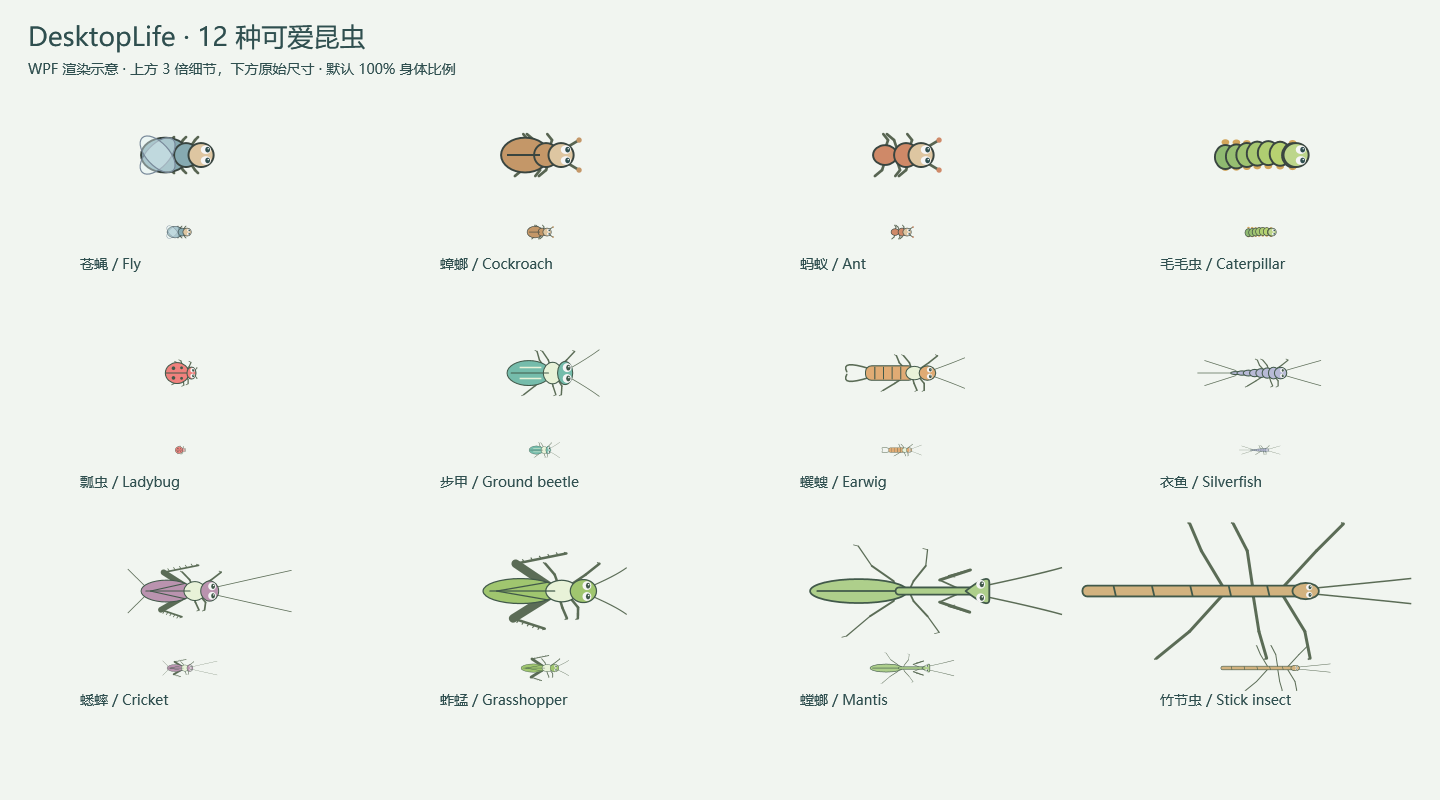
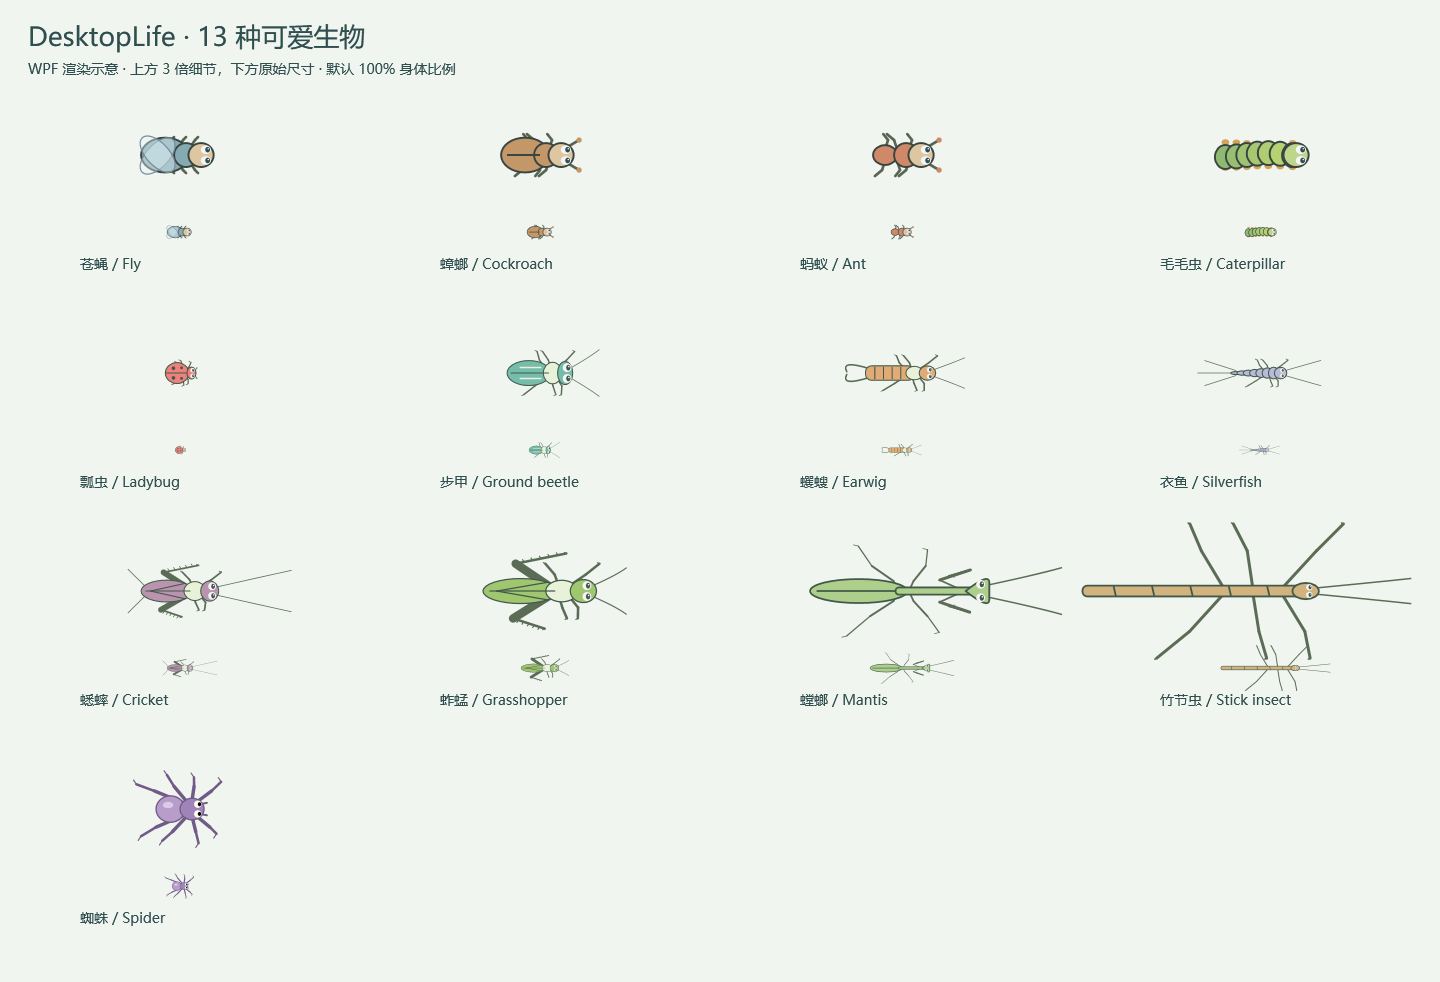
Prepare v0.4.2 release with spiders and longer jumps

diff --git a/README.md b/README.md
@@ -6,13 +6,13 @@
 
 Flies chase your cursor. Cockroaches scatter. Ants cross monitor boundaries. When your PC goes idle, the same creatures can take over as a native Windows screen saver.
 
-[**Download Desktop Pets v0.4.1**](https://github.com/JonGates/DesktopLife/releases/download/v0.4.1/DesktopLife-Portable-win-x64-v0.4.1.zip) · [**Download Screen Saver v0.4.1**](https://github.com/JonGates/DesktopLife/releases/download/v0.4.1/DesktopLife-ScreenSaver-win-x64-v0.4.1.zip) · [简体中文](README.zh-CN.md) · [All releases](https://github.com/JonGates/DesktopLife/releases)
+[**Download Desktop Pets v0.4.2**](https://github.com/JonGates/DesktopLife/releases/download/v0.4.2/DesktopLife-Portable-win-x64-v0.4.2.zip) · [**Download Screen Saver v0.4.2**](https://github.com/JonGates/DesktopLife/releases/download/v0.4.2/DesktopLife-ScreenSaver-win-x64-v0.4.2.zip) · [简体中文](README.zh-CN.md) · [All releases](https://github.com/JonGates/DesktopLife/releases)
 
-Windows 10/11 x64 · 12 insect species · Realistic and cute styles · Multi-monitor · Portable
+Windows 10/11 x64 · 13 creature types · Realistic and cute styles · Multi-monitor · Portable
 
 </div>
 
-> **In development:** the current source and local `0.4.2-preview.2` build add a spider with eight animated legs, realistic/cute appearances, and population/size controls in both desktop and screen saver modes. The linked v0.4.1 release does not include it yet. [Creature details](docs/INSECTS.md).
+> **New in v0.4.2:** eight-legged spiders, longer size-scaled jumps and refined ladybug wings. Both desktop and screen saver packages include these changes. [Creature details](docs/INSECTS.md).
 
 ![DesktopLife insects roaming across a Windows desktop](docs/images/live-desktop.gif)
 
@@ -22,7 +22,7 @@ Windows 10/11 x64 · 12 insect species · Realistic and cute styles · Multi-mon
 
 DesktopLife is both a **Windows desktop pet app** and a native **`.scr` screen saver**. Choose realistic insects, cute companions, or a mix of both:
 
-**Fly · Cockroach · Ant · Caterpillar · Ladybug · Ground beetle · Earwig · Silverfish · Cricket · Grasshopper · Mantis · Stick insect**
+**Fly · Cockroach · Ant · Caterpillar · Ladybug · Ground beetle · Earwig · Silverfish · Cricket · Grasshopper · Mantis · Stick insect · Spider**
 
 | Feature | What happens |
 | --- | --- |
@@ -31,7 +31,7 @@ DesktopLife is both a **Windows desktop pet app** and a native **`.scr` screen s
 | Species-specific motion | Crickets and grasshoppers jump. Ladybugs open their wings, take off and land. |
 | Realistic or cute | Switch the visual style without resetting populations, sizes or positions. |
 | True multi-monitor movement | Creatures cross the edges where monitors touch, including stacked, offset and negative-coordinate layouts. |
-| Per-species controls | Configure population and size ranges for the 11 non-fly species; set any of them to zero to hide it. The fly remains fixed at one. |
+| Per-species controls | Configure population and size ranges for the 12 non-fly species; set any of them to zero to hide it. The fly remains fixed at one. |
 
 ## Choose your mode
 
@@ -40,7 +40,7 @@ DesktopLife is both a **Windows desktop pet app** and a native **`.scr` screen s
 | Best for | Insects that stay with you while you work | An animated ecosystem while the PC is idle |
 | Interaction | Mouse-following fly, cursor reactions, pause/resume hotkeys | Autonomous movement; mouse or keyboard exits |
 | Display | Transparent overlay across your desktop | Native Windows `.scr` with dark or light background |
-| Download | **[DesktopLife-Portable-win-x64-v0.4.1.zip](https://github.com/JonGates/DesktopLife/releases/download/v0.4.1/DesktopLife-Portable-win-x64-v0.4.1.zip)** | **[DesktopLife-ScreenSaver-win-x64-v0.4.1.zip](https://github.com/JonGates/DesktopLife/releases/download/v0.4.1/DesktopLife-ScreenSaver-win-x64-v0.4.1.zip)** |
+| Download | **[DesktopLife-Portable-win-x64-v0.4.2.zip](https://github.com/JonGates/DesktopLife/releases/download/v0.4.2/DesktopLife-Portable-win-x64-v0.4.2.zip)** | **[DesktopLife-ScreenSaver-win-x64-v0.4.2.zip](https://github.com/JonGates/DesktopLife/releases/download/v0.4.2/DesktopLife-ScreenSaver-win-x64-v0.4.2.zip)** |
 
 Both packages support **Windows 10/11 x64**, include the .NET runtime, and keep their settings separate. No SDK, Visual Studio or separate .NET installation is required.
 
@@ -70,7 +70,7 @@ Keep the extracted screen saver folder in place after installation. See the [ful
 
 | Realistic insects | Cute insects |
 | --- | --- |
-| ![Realistic insects on dark and light backgrounds](docs/images/realistic-insects.png) | ![All 12 insects in cute style](docs/images/cute-insect-catalog.png) |
+| ![Realistic insects on dark and light backgrounds](docs/images/realistic-insects.png) | ![All 13 creatures in cute style](docs/images/cute-insect-catalog.png) |
 
 Realistic mode combines generated macro-style body textures with program-driven legs, antennae and wings. The assets are illustrations, not documentary photographs. Cute mode gives every species a distinct simplified appearance. Both styles are available in desktop and screen saver modes.
 
@@ -111,7 +111,7 @@ Desktop settings are stored under **`%AppData%\DesktopLife`**. The desktop app a
 
 ### Is this a finished release?
 
-Not yet. **v0.4.1 is a preview release.** Animation feedback and compatibility reports are especially useful—please include your Windows version and monitor arrangement when reporting a problem.
+Not yet. **v0.4.2 is a preview release.** Animation feedback and compatibility reports are especially useful—please include your Windows version and monitor arrangement when reporting a problem.
 
 ## Build from source
 
@@ -128,7 +128,7 @@ dotnet run --project src/DesktopLife.App -- --settings
 Create a self-contained Windows x64 package:
 
 ```powershell
-powershell -ExecutionPolicy Bypass -File scripts/Package-Portable.ps1 -Version 0.4.1
+powershell -ExecutionPolicy Bypass -File scripts/Package-Portable.ps1 -Version 0.4.2
 ```
 
 For implementation details, packaging commands and diagnostics, see the [development and packaging guide](docs/DEVELOPMENT_AND_PACKAGING.md). Motion and size behavior are documented in [locomotion](docs/LOCOMOTION.md) and [species and proportions](docs/INSECTS.md).
@@ -150,6 +150,6 @@ When reporting a problem, include:
 
 **If DesktopLife earned a permanent place on your desktop, consider giving it a ⭐.**
 
-[Download v0.4.1](https://github.com/JonGates/DesktopLife/releases/tag/v0.4.1) · [中文说明](README.zh-CN.md) · [Report a bug](https://github.com/JonGates/DesktopLife/issues)
+[Download v0.4.2](https://github.com/JonGates/DesktopLife/releases/tag/v0.4.2) · [中文说明](README.zh-CN.md) · [Report a bug](https://github.com/JonGates/DesktopLife/issues)
 
 </div>

diff --git a/docs/RELEASE_v0.4.2.md b/docs/RELEASE_v0.4.2.md
@@ -1,0 +1,29 @@
+# DesktopLife v0.4.2 — Spiders & Longer Jumps / 蜘蛛与跳跃优化
+
+One version, two self-contained Windows x64 programs: desktop pets and screen saver.
+同一版本提供桌面宠物与 Windows 屏保两个子程序，均自带 .NET 运行环境。
+
+## What's new / 更新
+
+- **Spider / 蜘蛛**：新增八足爬行蜘蛛，写实与可爱外观，支持数量、尺寸范围、鼠标避让和跨屏移动。默认关闭，在“生物配置”中把蜘蛛数量设为大于 0 即可体验。
+- **Longer jumps / 更远的跳跃**：100% 尺寸、无遮挡时，蟋蟀普通跳距 160–260 像素，蚱蜢 300–450 像素；受惊跳距增加 30%。跳距按起跳时的尺寸缩放，腾空高度提高，落点不受帧率影响。屏幕边界与空隙仍限制位移。
+- **Ladybug wings / 瓢虫翅膀**：透明后翅改为窄根、圆润末端，拍翅时加入俯视宽度变化，红色鞘翅展开角度收小。
+- 桌面与屏保同步支持以上变化，两种外观均适用；旧配置保持兼容。蜘蛛采用地栖爬行表现，暂不模拟结网、捕食或跳跃。
+
+Spiders have eight articulated legs and realistic/cute appearances, with population and size controls. Cricket and grasshopper jumps now scale with body size, gain extra range when startled, and land consistently across frame rates. Ladybug wings have a narrower silhouette and a foreshortened stroke. Both programs include all changes; existing settings remain compatible.
+
+## Downloads / 下载
+
+- `DesktopLife-Portable-win-x64-v0.4.2.zip` — extract fully, then run `Start-DesktopLife.cmd` / 完整解压后运行。
+- `DesktopLife-ScreenSaver-win-x64-v0.4.2.zip` — configure with `Configure-ScreenSaver.cmd`, install with `Install-ScreenSaver.cmd` / 配置、安装屏保。
+- `SHA256SUMS.txt` — one checksum list for both ZIPs / 两个 ZIP 的统一校验清单。
+
+Windows 10/11 x64. No separate .NET installation needed. Exit the old desktop app from its tray menu before launching the new version. Desktop and screen saver settings remain separate.
+
+升级前先从托盘退出旧程序。桌面与屏保分别保存配置。GitHub 自动提供的 Source code ZIP / tar.gz 是源码，不是可直接运行的便携包。
+
+## Validation / 验证
+
+196 automated tests passed. Additional checks cover both visual styles, transparent rendering, 100%/125%/150% DPI motion poses, desktop/screen saver settings, and the packaged screen saver preview lifecycle.
+
+This remains a preview release / 本版本仍为预览版。

diff --git a/docs/LOCOMOTION.md b/docs/LOCOMOTION.md
@@ -6,7 +6,7 @@
 
 - **蟋蟀、蚱蜢**：行走一段时间后偶尔跳跃。鼠标进入附近约 80 像素范围可以提前触发跳跃；落地后至少间隔约 2.5 秒才允许再次受惊跳跃。普通自主跳跃间隔随机约 3–7 秒。
 - **跳跃阶段**：约 0.15–0.22 秒准备，0.45–0.65 秒腾空，0.15 秒落地缓冲。后腿先蹬出，再收拢，接近落点时伸出；空中不继续播放行走步态。
-- **跳距（本地 0.4.2-preview.3，尚未发布到 Release）**：100% 尺寸、无遮挡时，蟋蟀平时跳 160–260 像素，蚱蜢跳 300–450 像素；鼠标接近触发时增加 30%，分别为 208–338 和 390–585 像素。跳距乘以起跳时的尺寸比例，起跳后的尺寸修改不会改变此次计划跳距。普通腾空高度分别为 32、48 像素，受惊增加 20%；绘制高度另随当前尺寸缩放。这些是桌面动画设计值，并非实测生物数据。边缘和屏幕间空隙会限制实际位移。
+- **跳距（v0.4.2）**：100% 尺寸、无遮挡时，蟋蟀平时跳 160–260 像素，蚱蜢跳 300–450 像素；鼠标接近触发时增加 30%，分别为 208–338 和 390–585 像素。跳距乘以起跳时的尺寸比例，起跳后的尺寸修改不会改变此次计划跳距。普通腾空高度分别为 32、48 像素，受惊增加 20%；绘制高度另随当前尺寸缩放。这些是桌面动画设计值，并非实测生物数据。边缘和屏幕间空隙会限制实际位移。
 - **瓢虫**：约 5–12 秒地面活动后起飞，飞行约 2–4 秒再降落。起飞阶段先展翅再离地，降落阶段先触地再收翅。鞘翅与拍动的膜翅分别绘制。
 - **暂停**：模拟时间与拍翅时间同时停止，继续后从当前阶段接着运动。
 - **多屏**：相接边缘可以通过。每一步都受实际屏幕矩形约束，不会穿过屏幕布局中的空隙。屏幕移除导致个体重新定位时，安全回到地面状态。

diff --git a/docs/SCREENSAVER.md b/docs/SCREENSAVER.md
@@ -1,6 +1,6 @@
 # DesktopLife 昆虫屏保 · Windows 10/11 Insect Screensaver (.scr)
 
-[中文项目首页](https://github.com/JonGates/DesktopLife#readme) · [English guide](https://github.com/JonGates/DesktopLife/blob/main/README.en.md) · **[下载屏保 / Download screensaver](https://github.com/JonGates/DesktopLife/releases/download/v0.4.1/DesktopLife-ScreenSaver-win-x64-v0.4.1.zip)**
+[中文项目首页](https://github.com/JonGates/DesktopLife#readme) · [English guide](https://github.com/JonGates/DesktopLife/blob/main/README.en.md) · **[下载屏保 / Download screensaver](https://github.com/JonGates/DesktopLife/releases/download/v0.4.2/DesktopLife-ScreenSaver-win-x64-v0.4.2.zip)**
 
 Windows 10/11 x64 屏保，自带 .NET 运行环境。独立于桌面宠物模式，可切换深色／浅色背景，支持多显示器、昆虫总数量设置、自动飞行和停落。
 
@@ -41,10 +41,10 @@ Keep the extracted folder in place after selecting the screen saver. To disable 
 dotnet run --project src/DesktopLife.ScreenSaver -- /c
 dotnet run --project src/DesktopLife.ScreenSaver -- /s
 dotnet run --project tools/DesktopLife.Diagnostics -- --screensaver-check
-powershell -ExecutionPolicy Bypass -File scripts/Package-ScreenSaver.ps1 -Version 0.4.1
+powershell -ExecutionPolicy Bypass -File scripts/Package-ScreenSaver.ps1 -Version 0.4.2
 ```
 
-输出：`artifacts/DesktopLife-ScreenSaver-win-x64-v0.4.1.zip` 和 `.zip.sha256`。原桌面模式继续使用 `Package-Portable.ps1` 打包。
+输出：`artifacts/DesktopLife-ScreenSaver-win-x64-v0.4.2.zip` 和 `.zip.sha256`。原桌面模式继续使用 `Package-Portable.ps1` 打包。
 
 源码 / Source: https://github.com/JonGates/DesktopLife
 

diff --git a/docs/INSECTS.md b/docs/INSECTS.md
@@ -1,6 +1,6 @@
 # 生物与比例
 
-当前源码与本地 v0.4.2-preview.2 共用 13 种生物的模拟与绘制（12 种昆虫及蜘蛛）。GitHub Release v0.4.1 尚不包含蜘蛛。全桌面固定一只苍蝇，其余物种按全桌面总数配置；相接的屏幕可连续通行。
+v0.4.2 的桌面与屏保共用 13 种生物的模拟与绘制（12 种昆虫及蜘蛛）。全桌面固定一只苍蝇，其余物种按全桌面总数配置；相接的屏幕可连续通行。
 
 ## 新增物种
 
